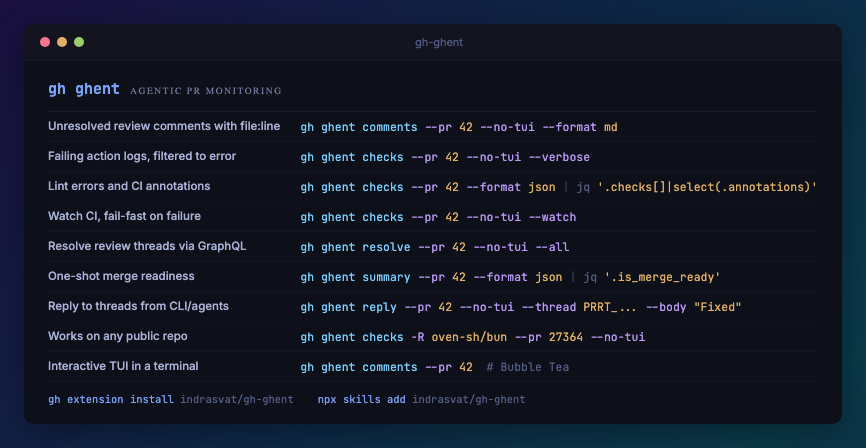
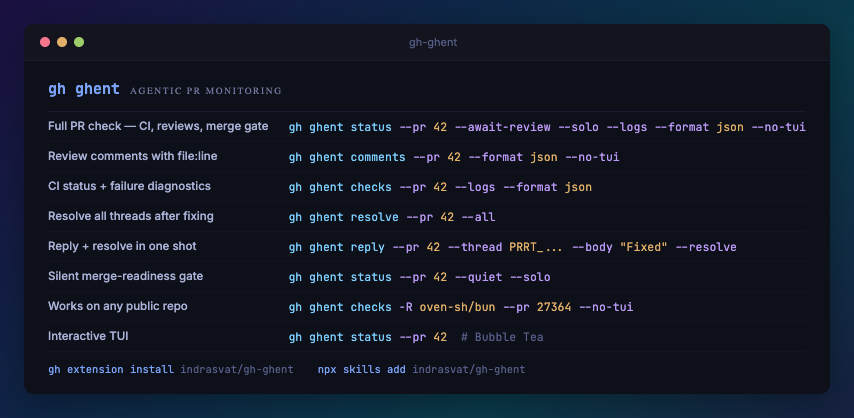
docs: optimize hero image with status command showcase
Reorder command rows to match SKILL.md flow — lead with the comprehensive
status --await-review command, show each of the 5 commands once, remove
3 redundant summary rows. Regenerate PNG via agent-browser + magick.

diff --git a/docs/feature-showcase-hero.html b/docs/feature-showcase-hero.html
@@ -123,40 +123,36 @@
     </div>
     <table>
       <tr>
-        <td class="desc">Unresolved review comments with file:line</td>
-        <td class="cmd"><span class="c">gh ghent comments</span> <span class="f">--pr</span> <span class="v">42</span> <span class="f">--no-tui</span> <span class="f">--format</span> <span class="v">md</span></td>
+        <td class="desc">Full PR check — CI, reviews, merge gate</td>
+        <td class="cmd"><span class="c">gh ghent status</span> <span class="f">--pr</span> <span class="v">42</span> <span class="f">--await-review</span> <span class="f">--solo</span> <span class="f">--logs</span> <span class="f">--format</span> <span class="v">json</span> <span class="f">--no-tui</span></td>
       </tr>
       <tr>
-        <td class="desc">Full status with failure diagnostics</td>
-        <td class="cmd"><span class="c">gh ghent summary</span> <span class="f">--pr</span> <span class="v">42</span> <span class="f">--logs</span> <span class="f">--format</span> <span class="v">json</span></td>
+        <td class="desc">Review comments with file:line</td>
+        <td class="cmd"><span class="c">gh ghent comments</span> <span class="f">--pr</span> <span class="v">42</span> <span class="f">--format</span> <span class="v">json</span> <span class="f">--no-tui</span></td>
       </tr>
       <tr>
-        <td class="desc">Wait for CI, get full report</td>
-        <td class="cmd"><span class="c">gh ghent summary</span> <span class="f">--pr</span> <span class="v">42</span> <span class="f">--watch</span> <span class="f">--logs</span> <span class="f">--format</span> <span class="v">json</span></td>
+        <td class="desc">CI status + failure diagnostics</td>
+        <td class="cmd"><span class="c">gh ghent checks</span> <span class="f">--pr</span> <span class="v">42</span> <span class="f">--logs</span> <span class="f">--format</span> <span class="v">json</span></td>
+      </tr>
+      <tr>
+        <td class="desc">Resolve all threads after fixing</td>
+        <td class="cmd"><span class="c">gh ghent resolve</span> <span class="f">--pr</span> <span class="v">42</span> <span class="f">--all</span></td>
+      </tr>
+      <tr>
+        <td class="desc">Reply + resolve in one shot</td>
+        <td class="cmd"><span class="c">gh ghent reply</span> <span class="f">--pr</span> <span class="v">42</span> <span class="f">--thread</span> <span class="v">PRRT_...</span> <span class="f">--body</span> <span class="v">"Fixed"</span> <span class="f">--resolve</span></td>
       </tr>
       <tr>
         <td class="desc">Silent merge-readiness gate</td>
-        <td class="cmd"><span class="c">gh ghent summary</span> <span class="f">--pr</span> <span class="v">42</span> <span class="f">--quiet</span></td>
-      </tr>
-      <tr>
-        <td class="desc">Resolve review threads via GraphQL</td>
-        <td class="cmd"><span class="c">gh ghent resolve</span> <span class="f">--pr</span> <span class="v">42</span> <span class="f">--no-tui</span> <span class="f">--all</span></td>
-      </tr>
-      <tr>
-        <td class="desc">One-shot merge readiness</td>
-        <td class="cmd"><span class="c">gh ghent summary</span> <span class="f">--pr</span> <span class="v">42</span> <span class="f">--format</span> <span class="v">json</span> <span class="p">|</span> <span class="j">jq</span> <span class="v">'.is_merge_ready'</span></td>
-      </tr>
-      <tr>
-        <td class="desc">Reply to threads from CLI/agents</td>
-        <td class="cmd"><span class="c">gh ghent reply</span> <span class="f">--pr</span> <span class="v">42</span> <span class="f">--no-tui</span> <span class="f">--thread</span> <span class="v">PRRT_...</span> <span class="f">--body</span> <span class="v">"Fixed"</span></td>
+        <td class="cmd"><span class="c">gh ghent status</span> <span class="f">--pr</span> <span class="v">42</span> <span class="f">--quiet</span> <span class="f">--solo</span></td>
       </tr>
       <tr>
         <td class="desc">Works on any public repo</td>
         <td class="cmd"><span class="c">gh ghent checks</span> <span class="f">-R</span> <span class="v">oven-sh/bun</span> <span class="f">--pr</span> <span class="v">27364</span> <span class="f">--no-tui</span></td>
       </tr>
       <tr>
-        <td class="desc">Interactive TUI in a terminal</td>
-        <td class="cmd"><span class="c">gh ghent comments</span> <span class="f">--pr</span> <span class="v">42</span>  <span class="j"># Bubble Tea</span></td>
+        <td class="desc">Interactive TUI</td>
+        <td class="cmd"><span class="c">gh ghent status</span> <span class="f">--pr</span> <span class="v">42</span>  <span class="j"># Bubble Tea</span></td>
       </tr>
     </table>
     <div class="foot">

diff --git a/docs/prd-and-task-conventions.md b/docs/prd-and-task-conventions.md
@@ -787,7 +787,7 @@ ghent operates in two modes based on TTY detection:
 - `--no-tui` flag forces pipe mode even in TTY (for agents in pseudo-TTY)
 - Detection: `go-gh/v2/pkg/term.FromEnv().IsTerminalOutput()`
 
-The TUI mockups (`docs/tui-mockups.html`) are the authoritative visual spec — 7 views covering comments, expanded thread, checks, watch, resolve, summary, and pipe mode.
+The TUI mockups (`docs/tui-mockups.html`) are the authoritative visual spec — 7 views covering comments, expanded thread, checks, watch, resolve, status, and pipe mode.
 
 All yukti/vivecaka TUI pitfalls apply directly. See `docs/testing-strategy.md` §7.
 
